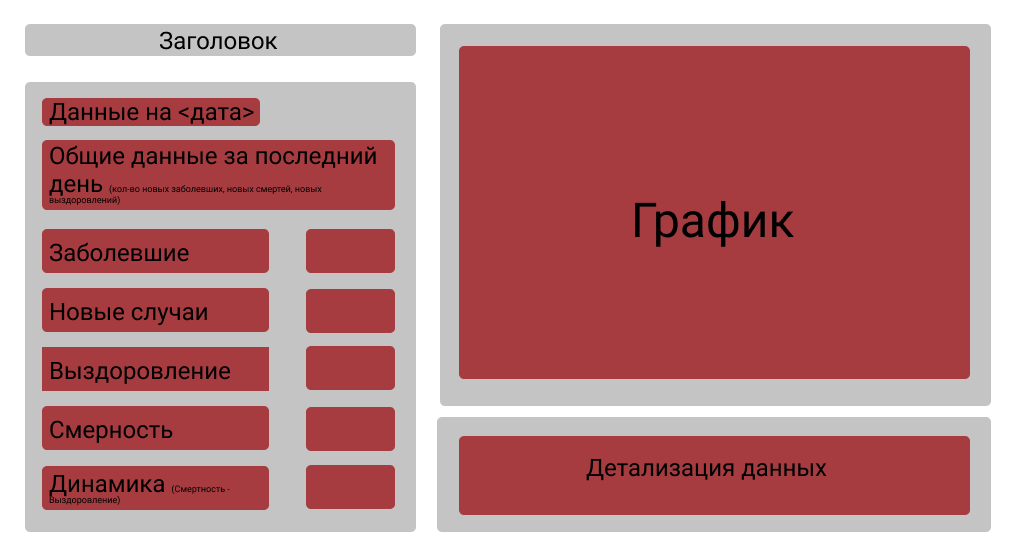
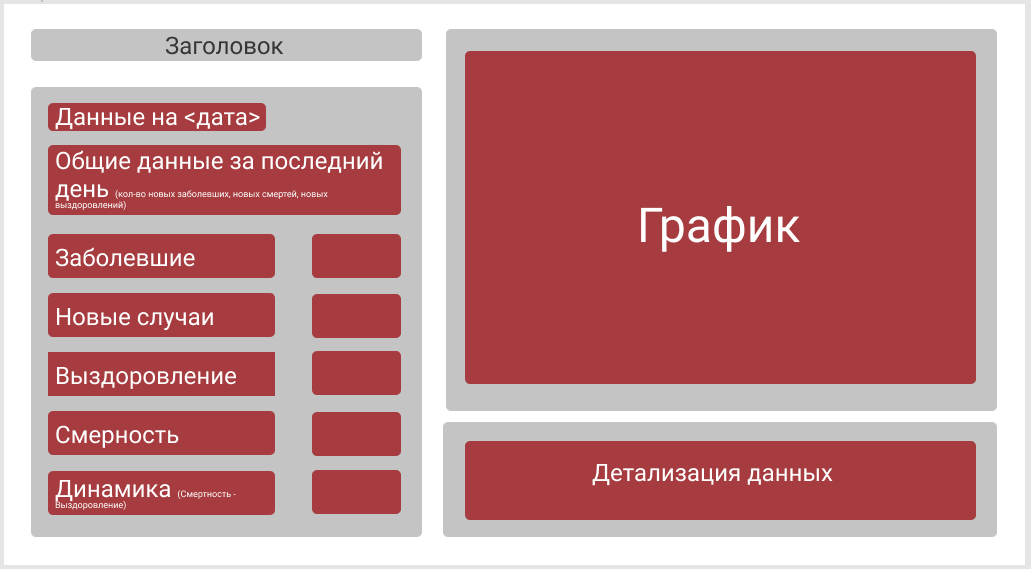
markup 080420

diff --git a/src/styles/scss/blocks/data.scss b/src/styles/scss/blocks/data.scss
@@ -1,0 +1,64 @@
+.data {
+    display: flex;
+    justify-content: center;
+    align-items: center;
+    background-color: $mainBGColor;
+    border-radius: $borderRadius;
+    width: 100%;
+    height: 95%;
+}
+
+.wrapper {
+    display: flex;
+    flex-direction: column;
+    justify-content: space-between;
+    width: 98%;
+    height: 98%;
+}
+
+.data__day {
+    width: 100%;
+    padding: 3px 10px;
+    background-color: $red;
+    border-radius: $borderRadius;
+}
+
+.data__common {
+    width: 100%;
+    height: 10%;
+    background-color: $red;
+    border-radius: $borderRadius;
+}
+
+.data__detailed {
+    display: flex;
+    flex-direction: column;
+    justify-content: space-between;
+    width: 100%;
+    height: 80%;
+}
+
+.data__row {
+    display: flex;
+    justify-content: space-between;
+    min-height: 50px;
+}
+
+.data__button {
+    width: 69%;
+    height: 100%;
+    background-color: $red;
+    border-radius: $borderRadius;
+    color: $mainColor;
+    font-size: 16px;
+}
+
+.data__display {
+    display: flex;
+    justify-content: center;
+    align-items: center;
+    width: 26%;
+    height: 100%;
+    background-color: $red;
+    border-radius: $borderRadius;
+}

diff --git a/src/styles/scss/layout/base.scss b/src/styles/scss/layout/base.scss
@@ -11,6 +11,7 @@ body {
     font-family: 'Open Sans', Helvetica, sans-serif;
     font-size: 16px;
     color: $mainColor;
+    margin: 0;
     -webkit-font-smoothing: antialiased;
     -moz-osx-font-smoothing: grayscale;
 }
@@ -19,23 +20,25 @@ body {
     margin: 0 auto;
     max-width: 1480px;
     width: 98%;
-    height: 100%;
+    height: 100vh;
     display: flex;
     justify-content: space-between;
+    align-items: center;
 }
 
 .content {
   display: flex;
   flex-direction: column;
-  height: 95%;
+  justify-content: space-between;
+  height: 95vh;
 }
 
 .content__left {
-  width: 35%;
+  width: 39%;
 }
 
 .content__right {
-  width: 55%;
+  width: 59%;
 }
 
 .title {
@@ -74,7 +77,6 @@ p {
 
 button[type="button"] {
   cursor: pointer;
-  background-color: transparent;
 }
 
 a {

diff --git a/src/scripts/parser.js b/src/scripts/parser.js
@@ -1,0 +1,14 @@
+window.addEventListener('DOMContentLoaded', () => {
+    const body = document.querySelector('body');
+
+
+    function recursy(element) {
+        element.childNodes.forEach(node => {
+            console.log(node);
+            if(element.childNodes.length > 1) {
+                recursy(node);
+            };
+        })
+    };
+    recursy(body);
+});

diff --git a/src/styles/scss/main.scss b/src/styles/scss/main.scss
@@ -4,3 +4,5 @@
 @import "./layout/base.scss";
 
 @import "./blocks/intro.scss";
+@import "./blocks/data.scss";
+@import "./blocks/graph.scss";

diff --git a/src/styles/scss/layout/vars.scss b/src/styles/scss/layout/vars.scss
@@ -1,6 +1,7 @@
 //colors
 $mainBGColor: #C4C4C4;
-$mainColor: #383535;
+$mainColor: #fff;
+$red: #A53E3E;
 
 //mesuares
 $borderRadius: 5px;

diff --git a/src/index.js b/src/index.js
@@ -1,4 +1,4 @@
-import "./scripts/sum";
+import "./scripts/parser";
 import "./styles/css/main.css";
 import "./styles/scss/main.scss";
 

diff --git a/src/styles/scss/blocks/graph.scss b/src/styles/scss/blocks/graph.scss
@@ -1,0 +1,7 @@
+.graph {
+    height: 74%;
+}
+
+.graph_detailed {
+    height: 24%;
+}
